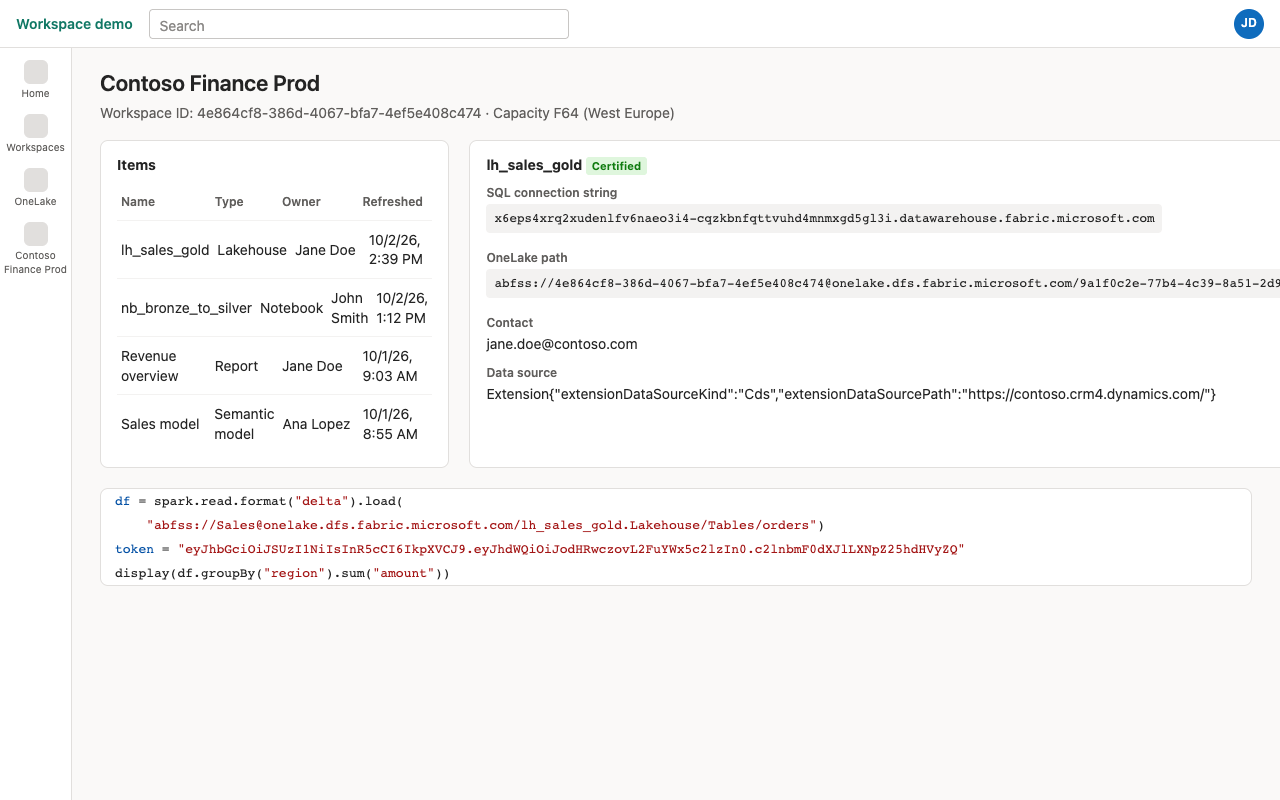
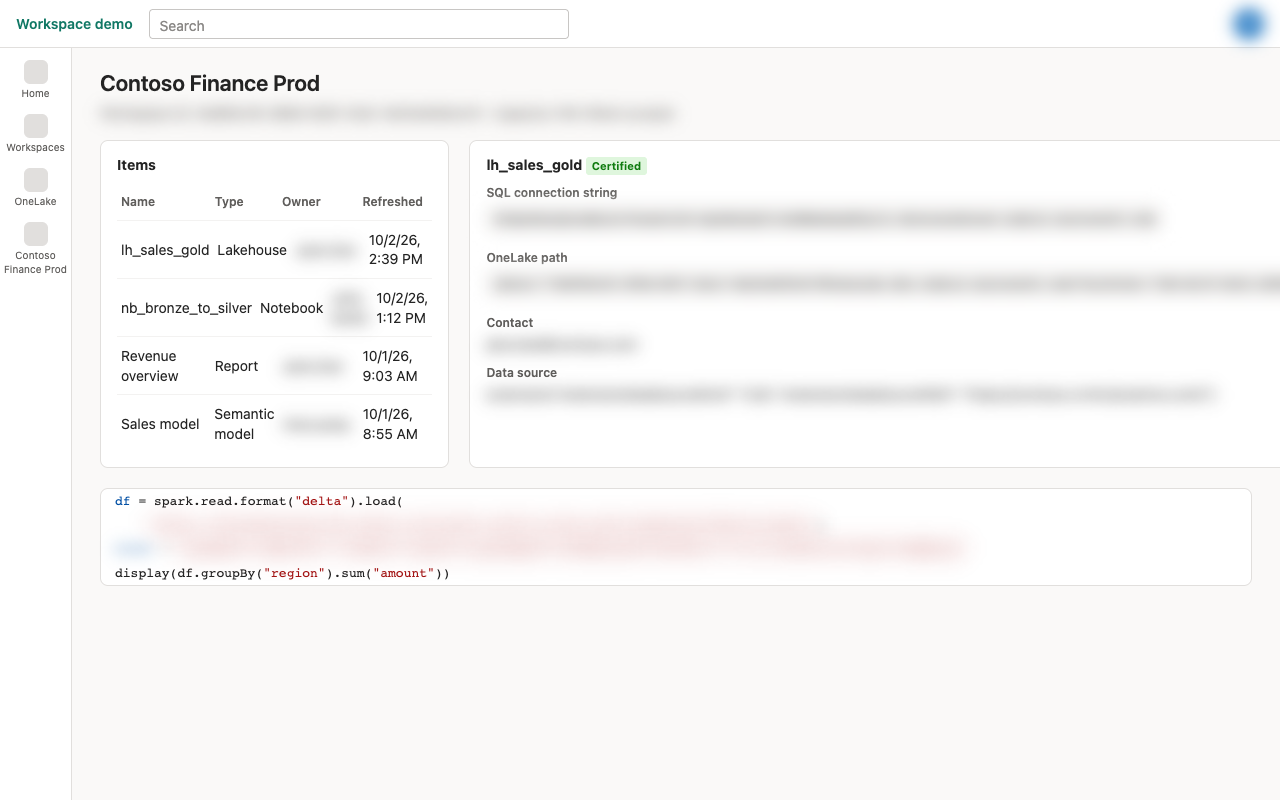
fix: keep column headers readable in owner/location columns
The portal gives the column header the same classes as its cells
(span[role=columnheader].column-header.col.col-owner), so the "Owner"
and "Location" headers were blurred. Exclude header cells from the
.col-owner / .col-workspace selectors.

diff --git a/tests/e2e/extension.test.js b/tests/e2e/extension.test.js
@@ -52,8 +52,9 @@ test('masks the portal, the notebook iframe and the title; toggles live', async 
   await page.waitForFunction(() => document.querySelector('#ws-id')?.hasAttribute('data-fabric-mask'));
   assert.equal(await filterOf(page, '#ws-id'), 'blur(8px)');
   assert.equal(await filterOf(page, '#endpoint'), 'blur(8px)');
-  assert.equal(await filterOf(page, '.col-owner'), 'blur(8px)');
+  assert.equal(await filterOf(page, '.row .col-owner'), 'blur(8px)');
   assert.equal(await filterOf(page, '.userInfoCircle'), 'blur(8px)');
+  assert.equal(await filterOf(page, '#hdr-owner'), 'none'); // column headers stay readable
   assert.equal(await filterOf(page, '#plain'), 'none');
   assert.equal(await filterOf(page, 'h1.workspace-name'), 'none'); // workspace names are opt-in
   assert.equal(await page.title(), 'lh_gold - Fabric');
@@ -77,13 +78,15 @@ test('masks the portal, the notebook iframe and the title; toggles live', async 
   // Opt-in category + custom term, applied live without reload
   await setSettings({ categories: { workspaceNames: true }, customTerms: ['lh_gold'] });
   await page.waitForFunction(() => getComputedStyle(document.querySelector('h1.workspace-name')).filter !== 'none');
+  assert.equal(await filterOf(page, '.row .col-workspace'), 'blur(8px)');
+  assert.equal(await filterOf(page, '#hdr-location'), 'none');
   await page.waitForFunction(() => document.querySelector('.name-text').hasAttribute('data-fabric-mask'));
   await page.waitForFunction(() => document.title === '•••••• - Fabric');
 
   // Global off switch (what the popup / Alt+Shift+M does)
   await setSettings({ enabled: false });
   await page.waitForFunction(() => !document.querySelector('#ws-id').hasAttribute('data-fabric-mask'));
-  assert.equal(await filterOf(page, '.col-owner'), 'none');
+  assert.equal(await filterOf(page, '.row .col-owner'), 'none');
   assert.equal(await page.title(), 'lh_gold - Fabric');
   await nb.locator('#path:not([data-fabric-mask])').waitFor();
 

diff --git a/src/shared/styles.js b/src/shared/styles.js
@@ -22,7 +22,8 @@
     'img[data-testid="workspace-header-logo-img"]',
     // "Owner" column in workspace lists and the OneLake catalog (display names, not e-mails)
     '[data-testid="fluentListCell.owner"]',
-    '.col.col-owner',
+    // The column header carries the same classes as the cells – keep the header ("Owner") readable.
+    '.col.col-owner:not([role="columnheader"], .column-header)',
     // Owner in the OneLake catalog item details
     'owner-details .property-value',
     // Microsoft account manager (MeControl) and Fluent personas used in older / embedded views
@@ -48,7 +49,7 @@
     'h1[data-testid="workspace-name-header"]',
     'button.workspaceName .navbar-item-label',
     'tri-workspace-button .workspace-name',
-    '.col.col-workspace',
+    '.col.col-workspace:not([role="columnheader"], .column-header)',
     'trident-domain-link .domain-link'
   ];
 

diff --git a/docs/demo/workspace.html b/docs/demo/workspace.html
@@ -52,7 +52,7 @@
     <div class="grid">
       <section class="card">
         <h2>Items</h2>
-        <div class="row head"><span>Name</span><span>Type</span><span>Owner</span><span>Refreshed</span></div>
+        <div class="row head" role="row"><span>Name</span><span>Type</span><span role="columnheader" class="column-header col col-owner">Owner</span><span>Refreshed</span></div>
         <div class="row"><span>lh_sales_gold</span><span>Lakehouse</span><span class="col col-owner">Jane Doe</span><span>10/2/26, 2:39 PM</span></div>
         <div class="row"><span>nb_bronze_to_silver</span><span>Notebook</span><span class="col col-owner">John Smith</span><span>10/2/26, 1:12 PM</span></div>
         <div class="row"><span>Revenue overview</span><span>Report</span><span class="col col-owner">Jane Doe</span><span>10/1/26, 9:03 AM</span></div>

diff --git a/tests/fixtures/fabric.html b/tests/fixtures/fabric.html
@@ -4,7 +4,12 @@
 <body>
   <trident-user-info-button><button class="userInfoButton"><div class="userInfoCircle">JD</div></button></trident-user-info-button>
   <h1 data-testid="workspace-name-header" class="workspace-name">Contoso Finance Prod</h1>
+  <div role="row" class="column-headers">
+    <span id="hdr-owner" role="columnheader" class="column-header col col-owner">Owner</span>
+    <span id="hdr-location" role="columnheader" class="column-header col col-workspace">Location</span>
+  </div>
   <div role="row" class="row">
+    <span class="col col-workspace">Contoso Finance Prod</span>
     <span class="col col-name"><span class="name-text">lh_gold</span></span>
     <span class="col col-owner" data-testid="fluentListCell.owner"><span>Jane Doe</span></span>
   </div>

diff --git a/CHANGELOG.md b/CHANGELOG.md
@@ -2,6 +2,12 @@
 
 All notable changes to this project are documented here. Versions follow [SemVer](https://semver.org/).
 
+## [1.0.1] – 2026-10-04
+
+### Fixed
+- Column headers ("Owner", "Location") in workspace lists and the OneLake catalog are no longer
+  masked – only the cells below them.
+
 ## [1.0.0] – 2026-10-04
 
 First release.
@@ -21,4 +27,5 @@ First release.
 - Popup and options page in English and German, light and dark theme.
 - Signed CRX + `updates.xml` for policy-based deployment (Chrome & Edge).
 
+[1.0.1]: https://github.com/TheTrustedAdvisor/fab-mask/releases/tag/v1.0.1
 [1.0.0]: https://github.com/TheTrustedAdvisor/fab-mask/releases/tag/v1.0.0
